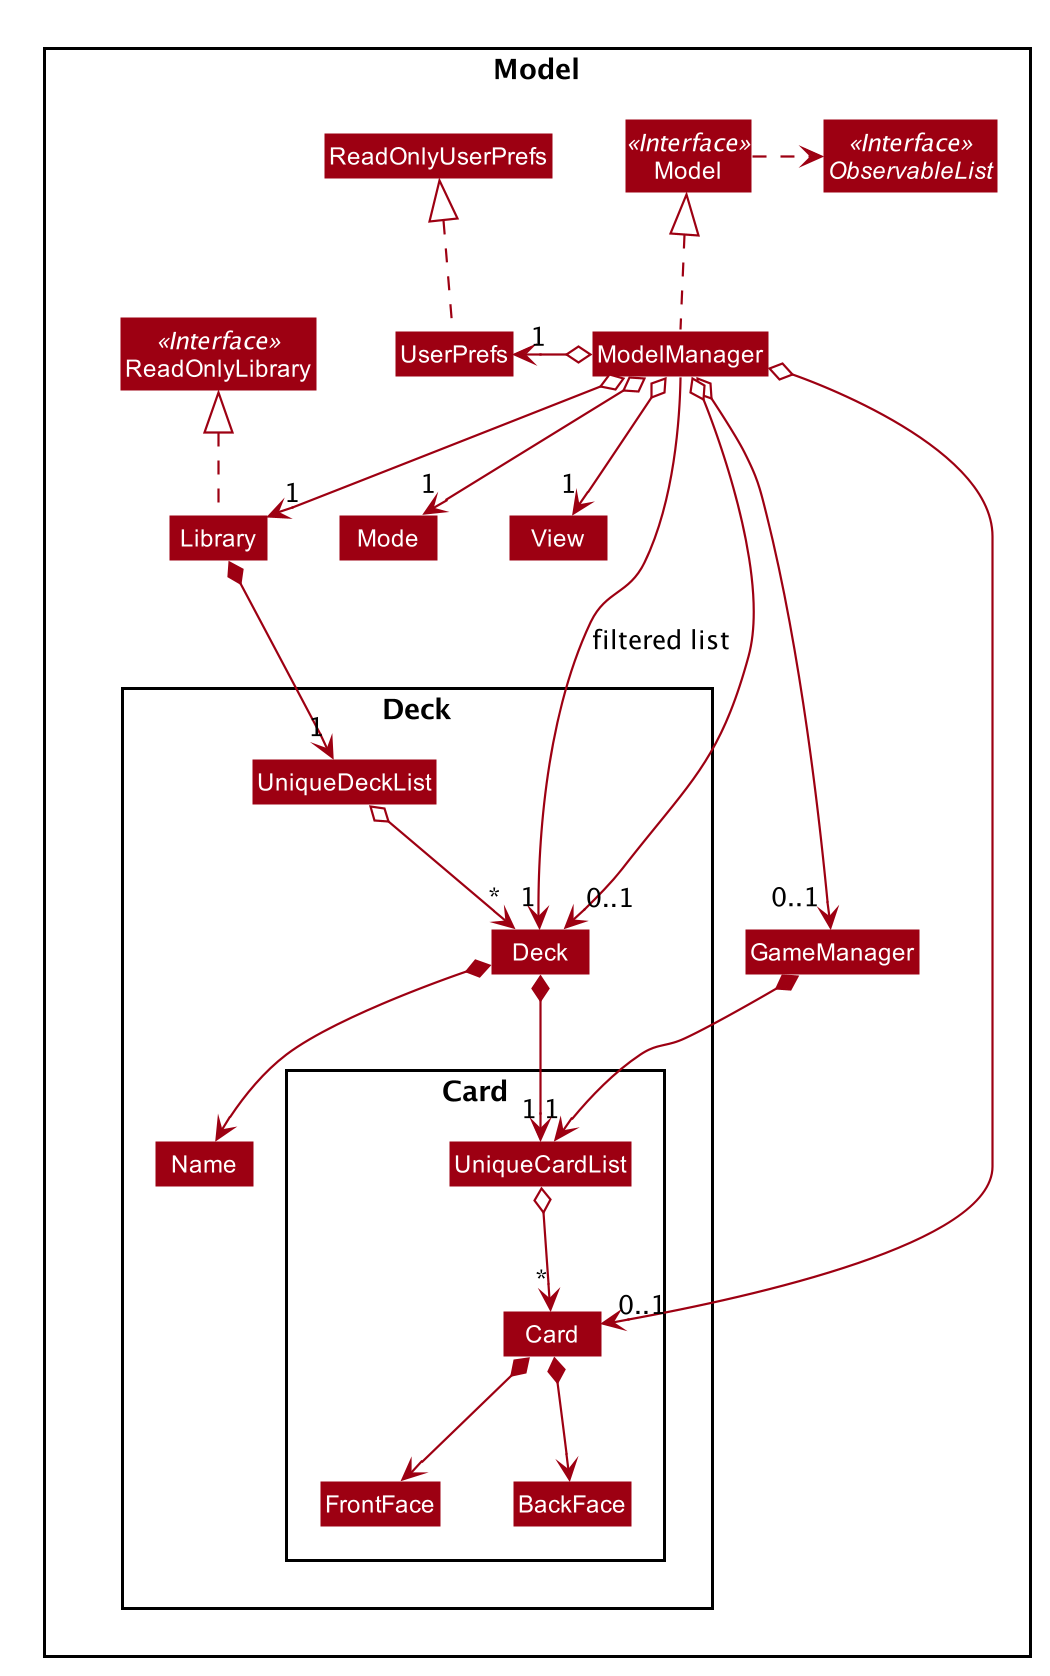
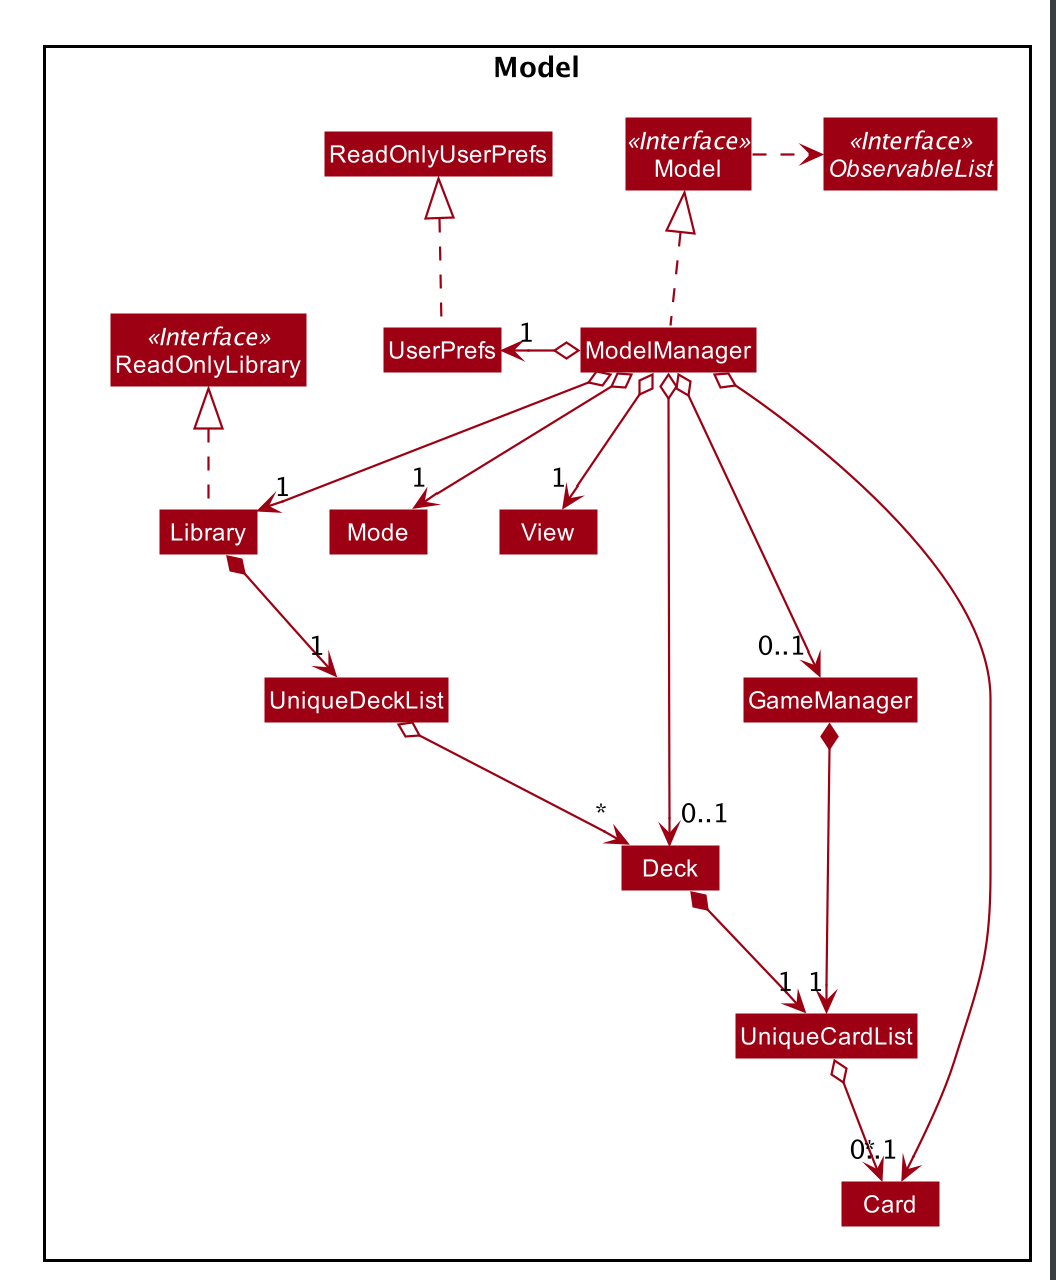
Rebuild pages at 9e7089f636a5b87f37c5eb52a176622766dd554c

diff --git a/DeveloperGuide.html b/DeveloperGuide.html
@@ -341,6 +341,12 @@ The lifeline for <code>DeleteCommandParser</code> should end at the destroy mark
 </div>
 <div class="title">Figure 7. Structure of the Model Component</div>
 </div>
+<div class="imageblock">
+<div class="content">
+<img src="images/ModelClassDeckDiagram.png" alt="ModelClassDeckDiagram">
+</div>
+<div class="title">Figure 8. Structure of the Deck Component within the Model Component</div>
+</div>
 <div class="paragraph">
 <p><strong>API</strong> : <a href="https://github.com/AY1920S2-CS2103T-W17-1/main/src/main/java/seedu/address/model/Model.java"><code>Model.java</code></a></p>
 </div>
@@ -382,7 +388,7 @@ The lifeline for <code>DeleteCommandParser</code> should end at the destroy mark
 <div class="content">
 <img src="images/StorageClassDiagram.png" alt="StorageClassDiagram">
 </div>
-<div class="title">Figure 8. Structure of the Storage Component</div>
+<div class="title">Figure 9. Structure of the Storage Component</div>
 </div>
 <div class="paragraph">
 <p><strong>API</strong> : <a href="https://github.com/AY1920S2-CS2103T-W17-1/main/src/main/java/seedu/address/storage/Storage.java"><code>Storage.java</code></a></p>
@@ -1666,4 +1672,4 @@ Expected: Similar to previous.</p>
 </div>
 </div>
 </div>
-</div></div><div id="footer"><div class="container"><div id="footer-text">Last updated 2020-04-08 13:00:57 UTC</div></div></div></body></html>
+</div></div><div id="footer"><div class="container"><div id="footer-text">Last updated 2020-04-09 07:03:57 UTC</div></div></div></body></html>

diff --git a/tutorials/RemovingFields.html b/tutorials/RemovingFields.html
@@ -175,4 +175,4 @@ While keeping the <code>address</code> field in the json files does not cause th
 <p>You can go through each individual <code>json</code> file and manually remove the <code>address</code> field.</p>
 </div>
 </div>
-</div></div><div id="footer"><div class="container"><div id="footer-text">Last updated 2020-04-08 13:00:58 UTC</div></div></div></body></html>
+</div></div><div id="footer"><div class="container"><div id="footer-text">Last updated 2020-04-09 07:03:57 UTC</div></div></div></body></html>

diff --git a/Testing.html b/Testing.html
@@ -90,4 +90,4 @@ e.g. <code>seedu.address.logic.LogicManagerTest</code></p>
 <div class="title">Figure 1. <code>Accessibility</code> permission is granted to <code>IntelliJ IDEA</code></div>
 </div>
 </div>
-</div></div><div id="footer"><div class="container"><div id="footer-text">Last updated 2020-04-08 13:00:57 UTC</div></div></div></body></html>
+</div></div><div id="footer"><div class="container"><div id="footer-text">Last updated 2020-04-09 07:03:57 UTC</div></div></div></body></html>

diff --git a/tutorials/AddRemark.html b/tutorials/AddRemark.html
@@ -616,4 +616,4 @@ In this case, <code>CommandTestUtil#assertCommandSuccess</code> is the best fit 
 <p>This concludes the tutorial for adding a new <code>Command</code> to AddressBook.</p>
 </div>
 </div>
-</div></div><div id="footer"><div class="container"><div id="footer-text">Last updated 2020-04-08 13:00:58 UTC</div></div></div></body></html>
+</div></div><div id="footer"><div class="container"><div id="footer-text">Last updated 2020-04-09 07:03:57 UTC</div></div></div></body></html>

diff --git a/SettingUp.html b/SettingUp.html
@@ -180,4 +180,4 @@ Having both Travis and AppVeyor ensures your App works on both Unix-based platfo
 </div>
 </div>
 </div>
-</div></div><div id="footer"><div class="container"><div id="footer-text">Last updated 2020-04-08 13:00:57 UTC</div></div></div></body></html>
+</div></div><div id="footer"><div class="container"><div id="footer-text">Last updated 2020-04-09 07:03:57 UTC</div></div></div></body></html>

diff --git a/UsingGradle.html b/UsingGradle.html
@@ -228,4 +228,4 @@ See <code>build.gradle</code> &#8594; <code>allprojects</code> &#8594; <code>dep
 </ul>
 </div>
 </div>
-</div></div><div id="footer"><div class="container"><div id="footer-text">Last updated 2020-04-08 13:00:57 UTC</div></div></div></body></html>
+</div></div><div id="footer"><div class="container"><div id="footer-text">Last updated 2020-04-09 07:03:57 UTC</div></div></div></body></html>

diff --git a/UsingNetlify.html b/UsingNetlify.html
@@ -138,4 +138,4 @@ The publish directory is the directory in which the built HTML documentation res
 </ol>
 </div>
 </div>
-</div></div><div id="footer"><div class="container"><div id="footer-text">Last updated 2020-04-08 13:00:57 UTC</div></div></div></body></html>
+</div></div><div id="footer"><div class="container"><div id="footer-text">Last updated 2020-04-09 07:03:57 UTC</div></div></div></body></html>

diff --git a/Documentation.html b/Documentation.html
@@ -226,4 +226,4 @@ The SE-EDU team does not provide support for modified template files.</p>
 </table>
 </div>
 </div>
-</div></div><div id="footer"><div class="container"><div id="footer-text">Last updated 2020-04-08 13:00:57 UTC</div></div></div></body></html>
+</div></div><div id="footer"><div class="container"><div id="footer-text">Last updated 2020-04-09 07:03:57 UTC</div></div></div></body></html>

diff --git a/team/johndoe.html b/team/johndoe.html
@@ -161,4 +161,4 @@
 <p><em>{Optionally, you may include other projects in your portfolio.}</em></p>
 </div>
 </div>
-</div></div><div id="footer"><div class="container"><div id="footer-text">Last updated 2020-04-08 13:00:58 UTC</div></div></div></body></html>
+</div></div><div id="footer"><div class="container"><div id="footer-text">Last updated 2020-04-09 07:03:57 UTC</div></div></div></body></html>

diff --git a/UsingTravis.html b/UsingTravis.html
@@ -292,4 +292,4 @@ Suggested change: Remove the codacy badge from <code>README</code>.</p>
 </div>
 </div>
 </div>
-</div></div><div id="footer"><div class="container"><div id="footer-text">Last updated 2020-04-08 13:00:57 UTC</div></div></div></body></html>
+</div></div><div id="footer"><div class="container"><div id="footer-text">Last updated 2020-04-09 07:03:57 UTC</div></div></div></body></html>

diff --git a/UsingPlantUml.html b/UsingPlantUml.html
@@ -337,4 +337,4 @@ Explicitly define all symbols to avoid any potential layout mishaps.
 </div>
 </div>
 </div>
-</div></div><div id="footer"><div class="container"><div id="footer-text">Last updated 2020-04-08 13:00:57 UTC</div></div></div></body></html>
+</div></div><div id="footer"><div class="container"><div id="footer-text">Last updated 2020-04-09 07:03:57 UTC</div></div></div></body></html>

diff --git a/HelpWindow.html b/HelpWindow.html
@@ -961,4 +961,4 @@ e.g. <code>delete 3</code></p>
 <p><br></p>
 </div>
 </div>
-</div></div><div id="footer"><div class="container"><div id="footer-text">Last updated 2020-04-08 13:00:57 UTC</div></div></div></body></html>
+</div></div><div id="footer"><div class="container"><div id="footer-text">Last updated 2020-04-09 07:03:57 UTC</div></div></div></body></html>
